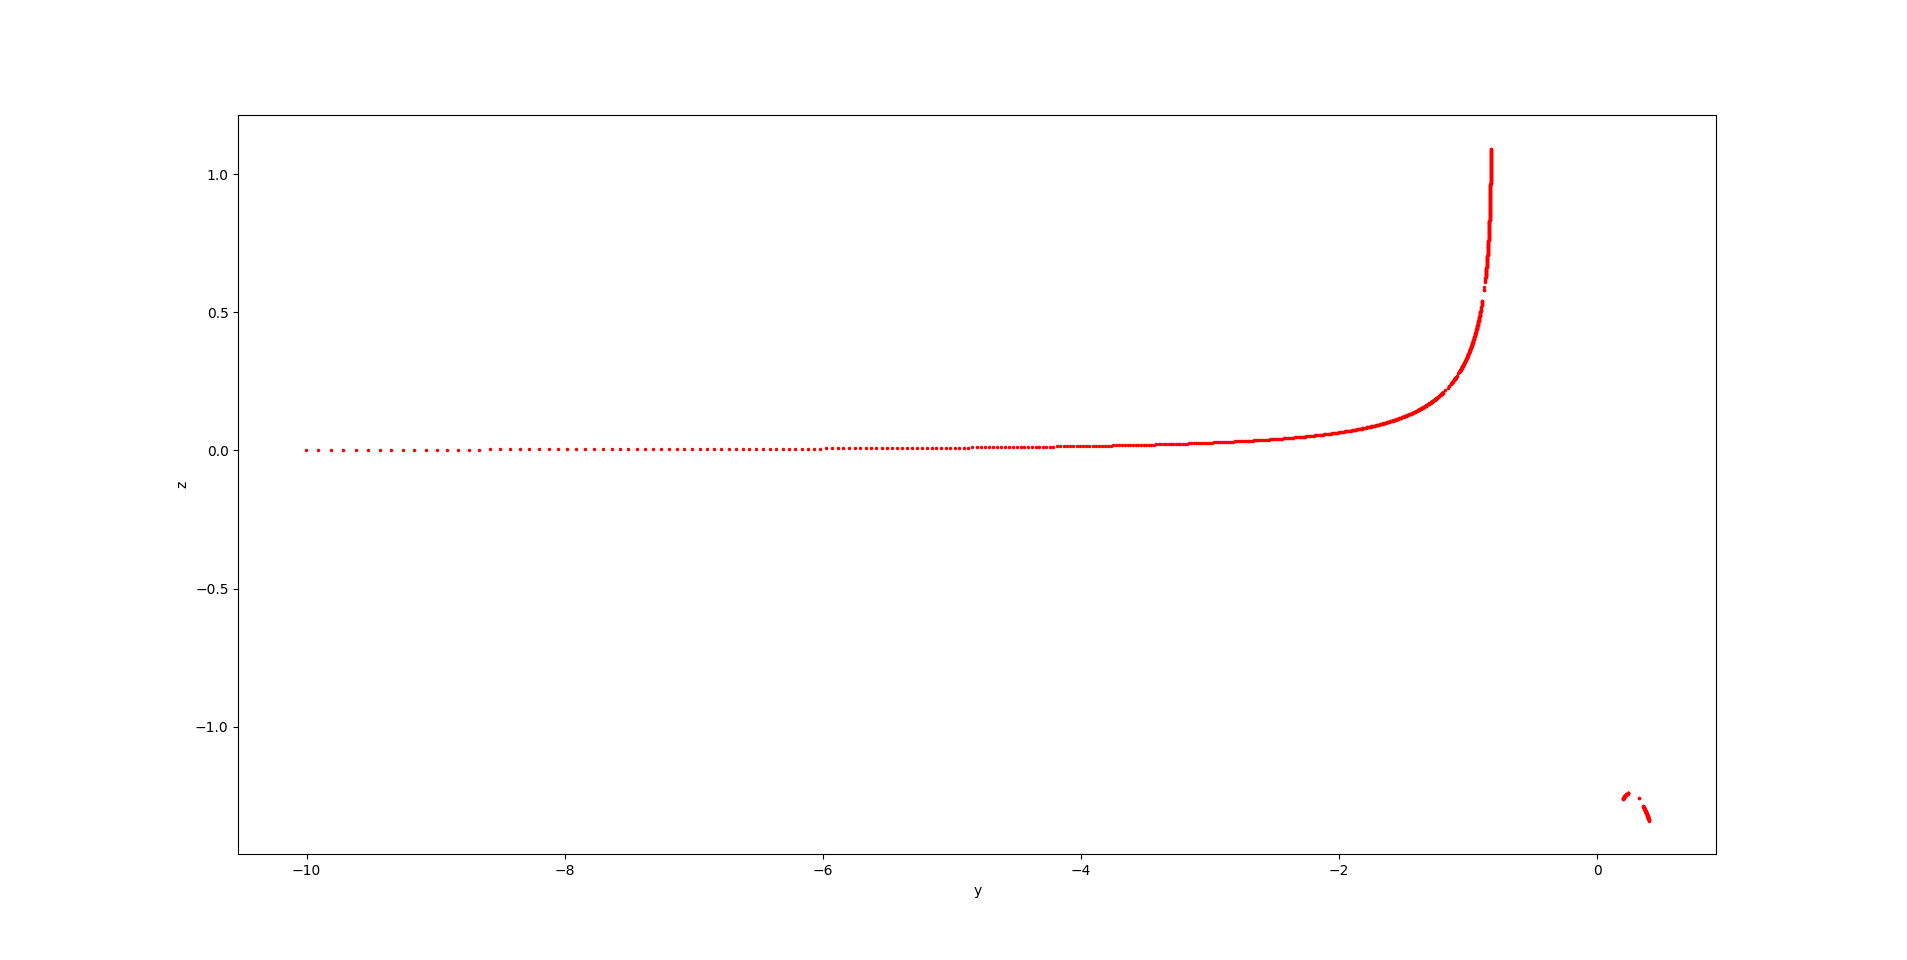
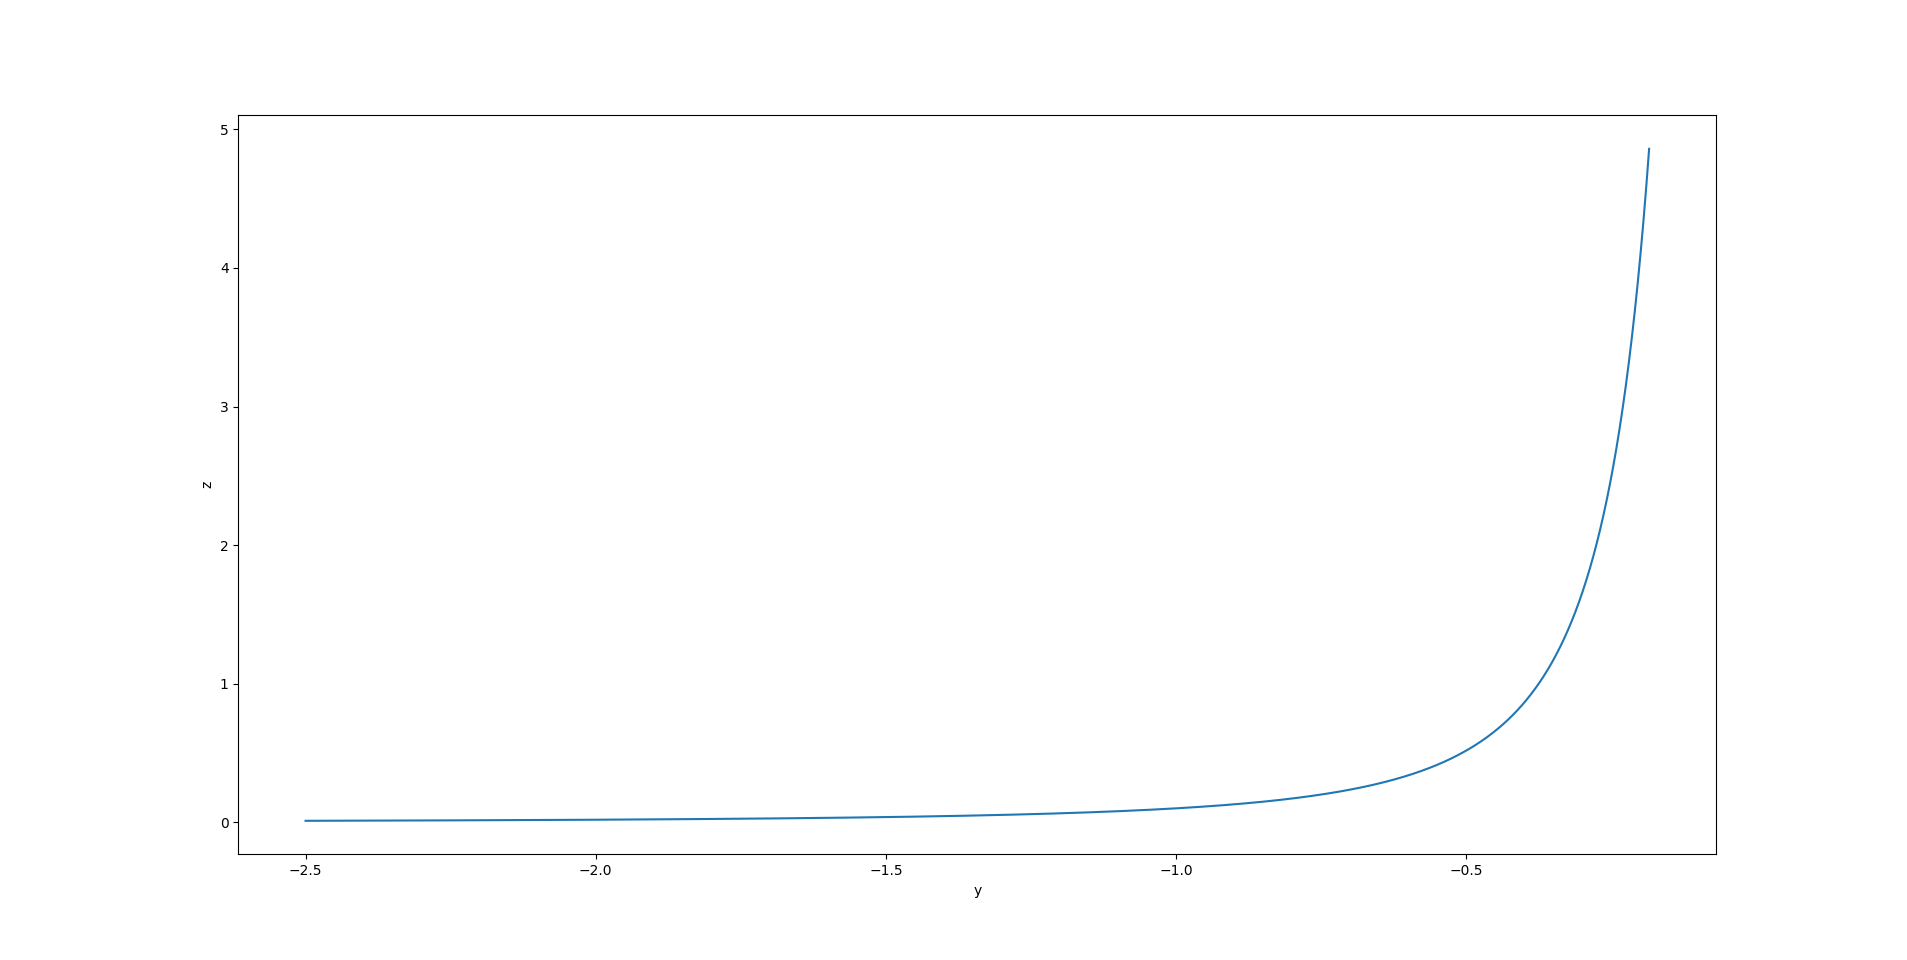
Numerik Newton Corrected

Changed region(s): [[0.526, 0.4375, 0.7425, 0.4688], [0.7425, 0.4062, 0.7735, 0.4375]]

diff --git a/Numerik/Week_6/newton2d.py b/Numerik/Week_6/newton2d.py
@@ -4,19 +4,23 @@ import matplotlib.pyplot as plt
 # F(x,y,z)
 
 
-def F(x, y, z): return np.array([[x**2+10*y*z], [20*y**2*z + 3*x*z - 5]])
+def F(x, y, z): return np.array([[x**2+10*y*z], [20*y**2*z + 3*x*y - 5]])
 
 # Inverse of Jacobimatrix of f(y,z)=F(x,y,z) (x is constant)
 
 
-def Jfinv(x, y, z): return 1/(20*y**2*z+30*x*y) * \
+def Jfinv(x, y, z): return 1/(20*y**2*z+3*x*y) * \
     np.array([[-2*y**2, y], [4*y*z+3/10*x, -z]])
 
 # Newton-Funktion
 
 
-def Nf(x, y, z): return np.array(
-    [[y], [z]]) - np.dot(Jfinv(x, y, z), F(x, y, z))
+def Nf(x, y, z): return np.array([[y], [z]]) - Jfinv(x, y, z) @ F(x, y, z)
+
+
+def Nf2(x, y, z): return np.array([[y], [z]])-1/(20*y**2*z+3*x*y) * np.array(
+    [[-2*y**2*x**2+3*x*y**2-5*y], [4*x**2*y*z+20*y**2*z**2+3/10*x**3+5*z]])
+
 
 # Newton-Verfahren
 
@@ -24,7 +28,8 @@ def Nf(x, y, z): return np.array(
 def Newton(x, y, z, maxit):
     for i in range(maxit):
         [y], [z] = Nf(x, y, z)
-        if np.abs(F(x, y, z)[0][0]) < 10**(-8) and np.abs(F(x, y, z)[1][0]) < 10**(-8):
+        [F1], [F2] = F(x, y, z)
+        if np.abs(F1) < 10**(-8) and np.abs(F2) < 10**(-8):
             return y, z
     print(x)  # find if maxit is sufficient
     return y, z
@@ -32,10 +37,15 @@ def Newton(x, y, z, maxit):
 
 xrange = np.linspace(-3, -0.5, 1000)
 
-for x in xrange:
-    y, z = Newton(x, 1, 1, 1000)
-    plt.scatter(y, z, s=9, c="r", marker=".")
+yValues = []
+zValues = []
 
+for x in xrange:
+    y, z = Newton(x, 0.2, 1, 1000)
+    yValues.append(y)
+    zValues.append(z)
+
+plt.plot(yValues, zValues)
 plt.ylabel("z")
 plt.xlabel("y")
 plt.show()
